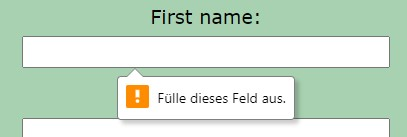
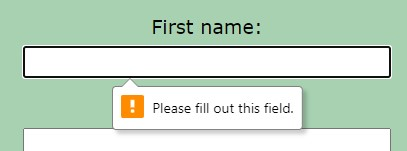
Add JavaScript section to readme and replace German text with English

Changed region(s): [[0.0295, 0.2628, 0.973, 1.0], [0.3538, 0.0584, 0.6486, 0.2336], [0.0295, 0.8759, 0.059, 1.0]]

diff --git a/README.md b/README.md
@@ -94,6 +94,7 @@ The live page can be viewed here: [Link to Geocaching Adventures](https://ci-dom
 [**VALIDATOR TESTING**](#validator-testing)
   * [HTML validator](#html-validator)
   * [CSS validator](#css-validator)
+  * [JavaScript validator](#javascript-validator)
     
 <br>
 
@@ -496,6 +497,11 @@ Lastly, the colours of the homepage were chosen to ensure enough contrast for vi
 <br>
 
 ![Screenshot of the CSS validation](docs/css-validation.jpg)
+
+### JavaScript validator
+* The scripts.js file was checked for correct use of the programming language. One alert mentioning that openDropdown() is unsused was returned, but this is because that function gets called in my HTML document.
+
+![Screenshot of the JavaScript validation](docs/javascript-validation.jpg)
 
 ---
 
